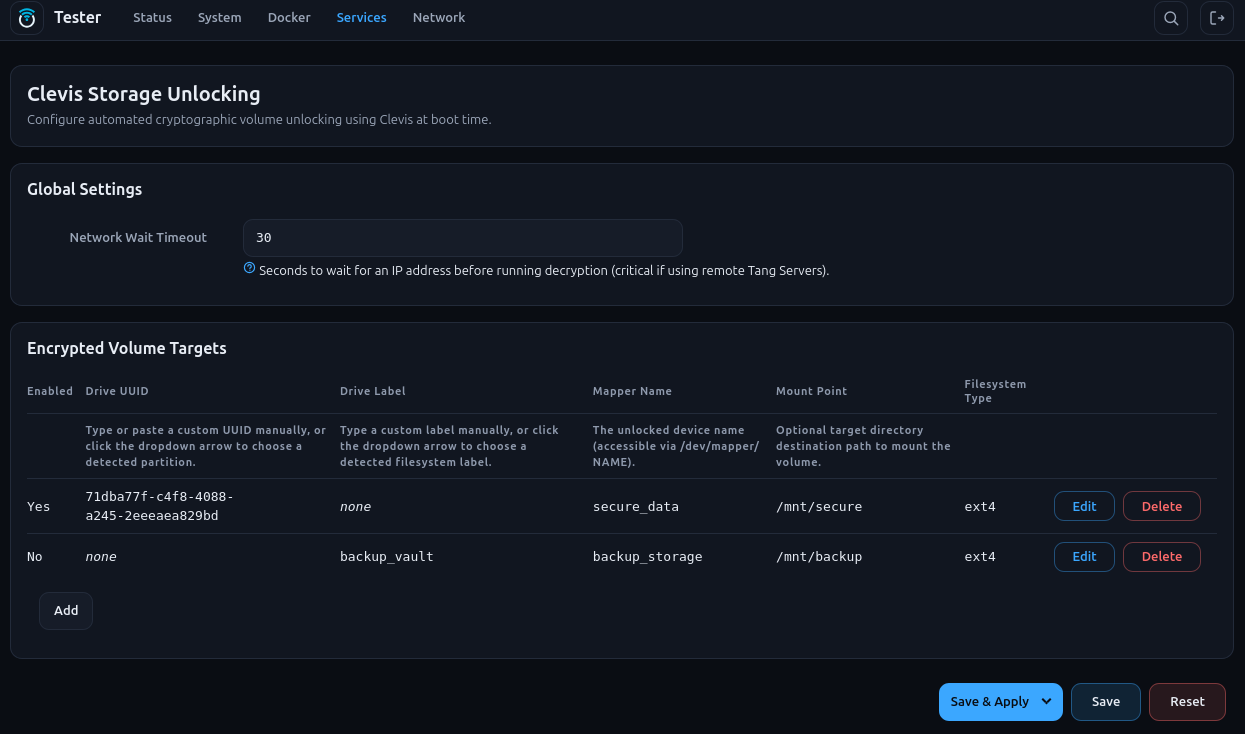
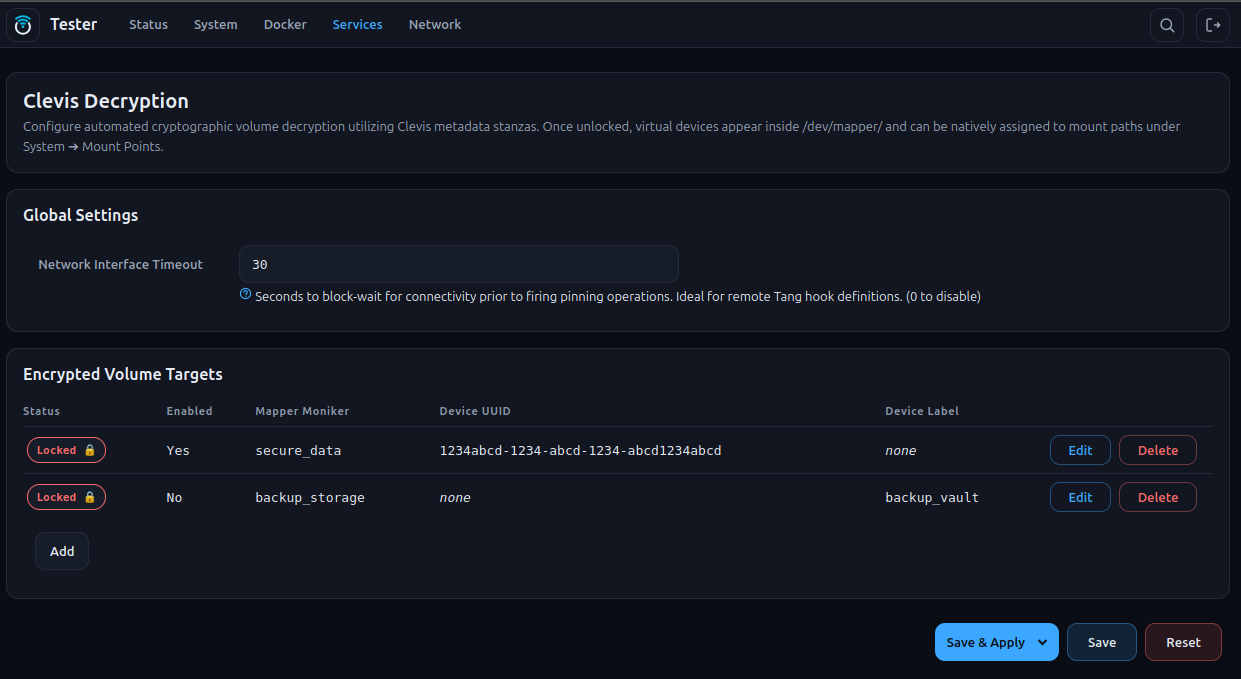
Updates

diff --git a/luci-app-clevis/htdocs/luci-static/resources/view/clevis.js b/luci-app-clevis/htdocs/luci-static/resources/view/clevis.js
@@ -1,117 +1,88 @@
 'use strict';
-/* sysauth: root */
+'use ui';
 
-'require form';
-'require fs';
-'require ui';
+// Statically pull required LuCI core modules
+var rpc = L.require('rpc');
+var ui = L.require('ui');
 
 return L.view.extend({
-	// Query the system blkid data natively to feed both drop-down combo box layers
+	// Fetch both the Form library and our live RPCD active mapper data concurrently
 	load: function() {
 		return Promise.all([
-			fs.exec('/usr/sbin/blkid').then(function(res) { return res.stdout || ''; }).catch(function() { return ''; })
+			L.resolveDefault(L.require('form')),
+			L.rpc.declare({
+				object: 'clevis',
+				method: 'status',
+				expect: { unlocked_mappers: [] }
+			})()
 		]);
 	},
 
 	render: function(data) {
-		// Unpack the blkid string output data from the promise response
-		var blkidData = data[0]; 
+		// Properly unpack Promise.all sequential indices
+		var form = data[0];
+		var unlockedMappers = data[1]; 
 		var m, s, o;
 
-		// Initialize the Map object cleanly using the form module dependency
-		m = new form.Map('clevis', _('Clevis Storage Unlocking'),
-			_('Configure automated cryptographic volume unlocking using Clevis at boot time.'));
+		m = new form.Map('clevis', _('Clevis Decryption'),
+			_('Configure automated cryptographic volume decryption utilizing Clevis metadata stanzas. Once unlocked, virtual devices appear inside /dev/mapper/ and can be natively assigned to mount paths under System ➔ Mount Points.'));
 
-		// Global Options Settings Section
+		// Global Timeout Config using TypedSection
 		s = m.section(form.TypedSection, 'global', _('Global Settings'));
 		s.anonymous = true;
 		s.addremove = false;
-		s.rmempty = false;
-
-		o = s.option(form.Value, 'network_timeout', _('Network Wait Timeout'),
-			_('Seconds to wait for an IP address before running decryption (critical if using remote Tang Servers).'));
-		o.datatype = 'uinteger';
-		o.placeholder = '30';
-		o.rmempty = false;
-
-		// Encrypted Drives Matrix Configuration Grid
-		s = m.section(form.GridSection, 'drive', _('Encrypted Volume Targets'));
-		s.addremove = true;
-		s.anonymous = true;
-
-		// Active Toggle Switch Flag Control
-		o = s.option(form.Flag, 'enabled', _('Enabled'));
-		o.rmempty = false;
-		o.default = '0';
-
-		// Editable Input text combo box setup targeting Drive UUIDs
-		o = s.option(form.Value, 'uuid', _('Drive UUID'),
-			_('Type or paste a custom UUID manually, or click the dropdown arrow to choose a detected partition.'));
-		o.widget = 'combobox'; 
-		o.datatype = 'string';
-		o.rmempty = true;
 		
-		// Parse lines for UUID dropdown data
-		var lines = blkidData.split('\n');
-		for (var i = 0; i < lines.length; i++) {
-			var line = lines[i];
-			var devMatch = line.match(/^([^:]+):/);
-			var uuidMatch = line.match(/UUID="([^"]+)"/);
-			
-			if (devMatch && uuidMatch) {
-				var devPath = devMatch[1];
-				var uuidVal = uuidMatch[1];
-				var labelMatch = line.match(/LABEL="([^"]+)"/);
-				var typeMatch = line.match(/TYPE="([^"]+)"/);
-				var labelText = labelMatch ? ' (' + labelMatch[1] + ')' : '';
-				var typeText = typeMatch ? ' [' + typeMatch[1] + ']' : '';
-				
-				o.value(uuidVal, uuidVal + ' - ' + devPath + labelText + typeText);
+		o = s.option(form.Value, 'network_timeout', _('Network Interface Timeout'), 
+			_('Seconds to block-wait for connectivity prior to firing pinning operations. Ideal for remote Tang hook definitions. (0 to disable)'));
+		o.datatype = 'uinteger';
+		o.default = '30';
+
+		// Drive Map Grid Section
+		s = m.section(form.GridSection, 'drive', _('Encrypted Volume Targets'));
+		s.anonymous = true;
+		s.addremove = true;
+
+		// LIVE STATUS BADGE COLUMN
+		o = s.option(form.DummyValue, '_status', _('Status'));
+		o.modalonly = false;
+
+		// Step A: Calculate the true status state string for this row section
+		o.cfgvalue = function(section_id) {
+			var mapperName = L.uci.get('clevis', section_id, 'mapper');
+			if (!mapperName) {
+				return 'unsaved';
 			}
-		}
+			return (unlockedMappers.indexOf(mapperName) !== -1) ? 'unlocked' : 'locked';
+		};
 
-		// FIXED: Converted Drive Label to an editable combo box input with automated label parsing
-		o = s.option(form.Value, 'label', _('Drive Label'),
-			_('Type a custom label manually, or click the dropdown arrow to choose a detected filesystem label.'));
-		o.widget = 'combobox';
-		o.datatype = 'string';
-		o.rmempty = true;
+		// Step B: Direct the table renderer on exactly how to display that value state string
+		o.textvalue = function(section_id) {
+			var state = this.cfgvalue(section_id);
 
-		// Parse lines for Label dropdown data
-		for (var i = 0; i < lines.length; i++) {
-			var line = lines[i];
-			var devMatch = line.match(/^([^:]+):/);
-			var labelMatch = line.match(/LABEL="([^"]+)"/);
-			
-			if (devMatch && labelMatch) {
-				var devPath = devMatch[1];
-				var labelVal = labelMatch[1];
-				var uuidMatch = line.match(/UUID="([^"]+)"/);
-				var typeMatch = line.match(/TYPE="([^"]+)"/);
-				var uuidText = uuidMatch ? ' (UUID: ' + uuidMatch[1] + ')' : '';
-				var typeText = typeMatch ? ' [' + typeMatch[1] + ']' : '';
-				
-				o.value(labelVal, labelVal + ' - ' + devPath + uuidText + typeText);
+			if (state === 'unlocked') {
+				return E('span', { 'class': 'label success', 'style': 'display:inline-block;' }, _('Unlocked 🔓'));
+			} else if (state === 'locked') {
+				return E('span', { 'class': 'label danger', 'style': 'display:inline-block;' }, _('Locked 🔒'));
+			} else {
+				return E('em', _('Unsaved Profile'));
 			}
-		}
+		};
 
-		// Mapper Output Layer Destination Property
-		o = s.option(form.Value, 'mapper', _('Mapper Name'),
-			_('The unlocked device name (accessible via /dev/mapper/NAME).'));
-		o.datatype = 'alnum';
+		// Toggle Profile State
+		o = s.option(form.Flag, 'enabled', _('Enabled'));
+		o.default = o.enabled;
+
+		// Virtual Device Mapper Moniker
+		o = s.option(form.Value, 'mapper', _('Mapper Moniker'));
 		o.rmempty = false;
 
-		// Storage Target Destination Mount Directory Parameters
-		o = s.option(form.Value, 'mount_point', _('Mount Point'),
-			_('Optional target directory destination path to mount the volume.'));
-		o.datatype = 'directory';
+		// Hardware Identity (UUID)
+		o = s.option(form.Value, 'uuid', _('Device UUID'));
+		o.rmempty = true;
 
-		o = s.option(form.ListValue, 'fstype', _('Filesystem Type'));
-		o.value('ext4', 'ext4');
-		o.value('btrfs', 'btrfs');
-		o.value('f2fs', 'f2fs');
-		o.value('xfs', 'xfs');
-		o.default = 'ext4';
+		// Alternative Label Identity
+		o = s.option(form.Value, 'label', _('Device Label'));
+		o.rmempty = true;
 
 		return m.render();
 	}
